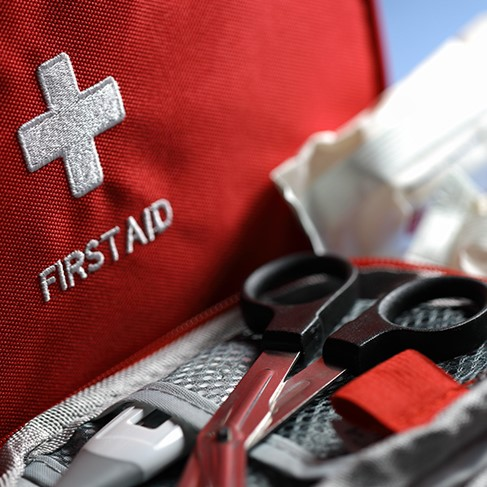
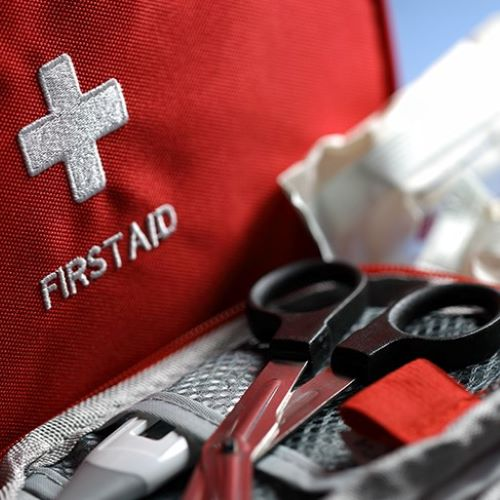
122

diff --git a/index.html b/index.html
@@ -57,7 +57,7 @@
                         </div>
                     </li>
                     <li>
-                        <div><a href="pages/earthquake.html"><img src="res/images/featured (4).jpeg" alt=""></a></div>
+                        <div><a href="pages/earthquake.html"><img src="res/images/featured (4).jpg" alt=""></a></div>
                         <div>
                             <p class="timelabel">2024-3</p><a href="pages/earthquake.html">对于地震的应对指南</a>
                         </div>
@@ -105,11 +105,11 @@
                 <section>
                     <div>
                         <p>母星，太阳和月亮，在镜头中呈现出美丽的错位。</p>
-                        <img src="res/images/other (1).jpeg" alt="" width="100%" height="100%">
+                        <img src="res/images/other (1).jpg" alt="" width="100%" height="100%">
                     </div>
                     <div>
                         <p>人类的高速发展使他们翱翔天空，别忘记脚下的土地。</p>
-                        <img src="res/images/other (2).jpeg" alt="" width="100%" height="100%">
+                        <img src="res/images/other (2).jpg" alt="" width="100%" height="100%">
                     </div>
                 </section>
             </div>
